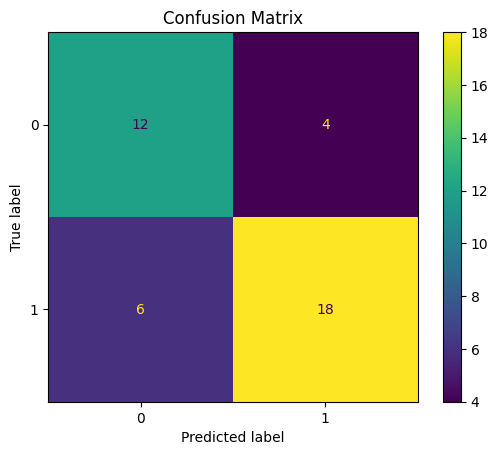
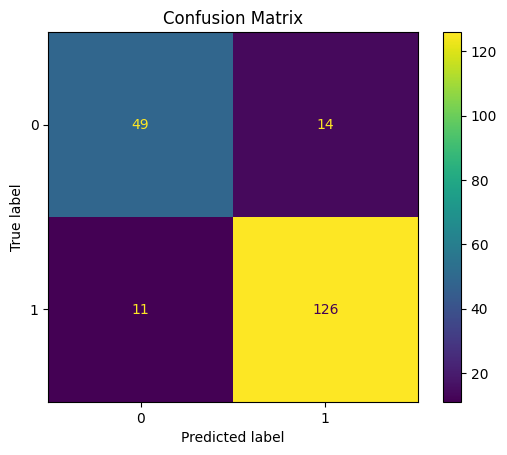
refactor: add reusable mlflow configuration helper

diff --git a/src/mlops_lr/evaluate.py b/src/mlops_lr/evaluate.py
@@ -3,6 +3,7 @@ from pathlib import Path
 from typing import Optional
 
 import joblib
+import matplotlib
 import mlflow
 import pandas as pd
 from sklearn.metrics import (
@@ -17,9 +18,11 @@ from sklearn.model_selection import train_test_split
 
 from mlops_lr.config import load_config
 from mlops_lr.logger import get_logger
+from mlops_lr.mlflow_utils import configure_mlflow
 
-import matplotlib.pyplot as plt
-from sklearn.metrics import ConfusionMatrixDisplay, confusion_matrix
+matplotlib.use("Agg")
+import matplotlib.pyplot as plt  # noqa: E402
+from sklearn.metrics import ConfusionMatrixDisplay, confusion_matrix  # noqa: E402
 
 
 logger = get_logger(__name__)
@@ -28,6 +31,7 @@ logger = get_logger(__name__)
 def evaluate_model(run_id: Optional[str] = None) -> dict[str, float]:
     logger.info("Evaluating model")
     config = load_config()
+    configure_mlflow()
     target_column = config.data.target_column
 
     data = pd.read_csv(config.data.processed_path)
@@ -68,6 +72,9 @@ def evaluate_model(run_id: Optional[str] = None) -> dict[str, float]:
     plt.savefig(confusion_matrix_path, bbox_inches="tight")
     plt.close()
 
+    with output_path.open("w") as file:
+        json.dump(metrics, file, indent=2)
+
     if run_id:
         with mlflow.start_run(run_id=run_id):
             mlflow.log_metrics(metrics)
@@ -78,9 +85,6 @@ def evaluate_model(run_id: Optional[str] = None) -> dict[str, float]:
             mlflow.log_metrics(metrics)
             mlflow.log_artifact(str(output_path))
             mlflow.log_artifact(str(confusion_matrix_path))
-
-    with output_path.open("w") as file:
-        json.dump(metrics, file, indent=2)
 
     logger.info("Evaluation metrics saved to %s", output_path)
     return metrics

diff --git a/tests/test_mlflow_utils.py b/tests/test_mlflow_utils.py
@@ -1,0 +1,12 @@
+import mlflow
+
+from mlops_lr.config import load_config
+from mlops_lr.mlflow_utils import configure_mlflow
+
+
+def test_configure_mlflow():
+    config = load_config()
+
+    configure_mlflow()
+
+    assert mlflow.get_tracking_uri() == config.mlflow.tracking_uri

diff --git a/src/mlops_lr/mlflow_utils.py b/src/mlops_lr/mlflow_utils.py
@@ -1,0 +1,10 @@
+import mlflow
+
+from mlops_lr.config import load_config
+
+
+def configure_mlflow() -> None:
+    config = load_config()
+
+    mlflow.set_tracking_uri(config.mlflow.tracking_uri)
+    mlflow.set_experiment(config.mlflow.experiment_name)

diff --git a/src/mlops_lr/pipeline.py b/src/mlops_lr/pipeline.py
@@ -13,13 +13,12 @@ def run_pipeline() -> dict[str, float]:
 
     generate_raw_data()
     create_processed_data()
-    train_model()
-    metrics = evaluate_model()
+    _, run_id = train_model()
+    metrics = evaluate_model(run_id=run_id)
 
     logger.info("ML pipeline completed")
     return metrics
 
 
 if __name__ == "__main__":
-    _, run_id = train_model()
-    metrics = evaluate_model(run_id=run_id)
+    run_pipeline()

diff --git a/src/mlops_lr/train.py b/src/mlops_lr/train.py
@@ -11,6 +11,7 @@ from mlops_lr.logger import get_logger
 import mlflow
 import mlflow.sklearn
 from mlflow.models.signature import infer_signature
+from mlops_lr.mlflow_utils import configure_mlflow
 
 
 logger = get_logger(__name__)
@@ -18,10 +19,8 @@ logger = get_logger(__name__)
 
 def train_model() -> tuple[LogisticRegression, str]:
     config = load_config()
+    configure_mlflow()
     target_column = config.data.target_column
-
-    mlflow.set_tracking_uri(config.mlflow.tracking_uri)
-    mlflow.set_experiment(config.mlflow.experiment_name)
 
     data = pd.read_csv(config.data.processed_path)
 

diff --git a/README.md b/README.md
@@ -1111,6 +1111,9 @@ Implementation:
 import matplotlib.pyplot as plt
 from sklearn.metrics import ConfusionMatrixDisplay, confusion_matrix
 
+with output_path.open("w") as file:
+    json.dump(metrics, file, indent=2)
+
 cm = confusion_matrix(y_test, y_pred)
 display = ConfusionMatrixDisplay(confusion_matrix=cm)
 display.plot()
@@ -1168,4 +1171,52 @@ black src tests
 flake8 src tests
 PYTHONPATH=src pytest
 PYTHONPATH=src python -c "from mlops_lr.evaluate import evaluate_model; print(evaluate_model())"
+```
+
+Troubleshooting:
+
+When running the full pipeline, pass the training run ID into evaluation so evaluation artifacts land on the same training run:
+
+```python
+_, run_id = train_model()
+metrics = evaluate_model(run_id=run_id)
+```
+
+If `evaluate_model()` is called without a `run_id`, MLflow creates a separate evaluation run. In that case, artifacts like `confusion_matrix.png` appear on the evaluation run, not the training run.
+
+### Step 23: MLflow Helper Module
+
+Created a reusable MLflow helper in `src/mlops_lr/mlflow_utils.py`.
+
+This keeps MLflow setup consistent across training, evaluation, and future tracking features.
+
+Implementation:
+
+```python
+import mlflow
+
+from mlops_lr.config import load_config
+
+
+def configure_mlflow() -> None:
+    config = load_config()
+
+    mlflow.set_tracking_uri(config.mlflow.tracking_uri)
+    mlflow.set_experiment(config.mlflow.experiment_name)
+```
+
+Usage:
+
+```python
+from mlops_lr.mlflow_utils import configure_mlflow
+
+configure_mlflow()
+```
+
+Run:
+
+```bash
+black src tests
+flake8 src tests
+PYTHONPATH=src pytest
 ```